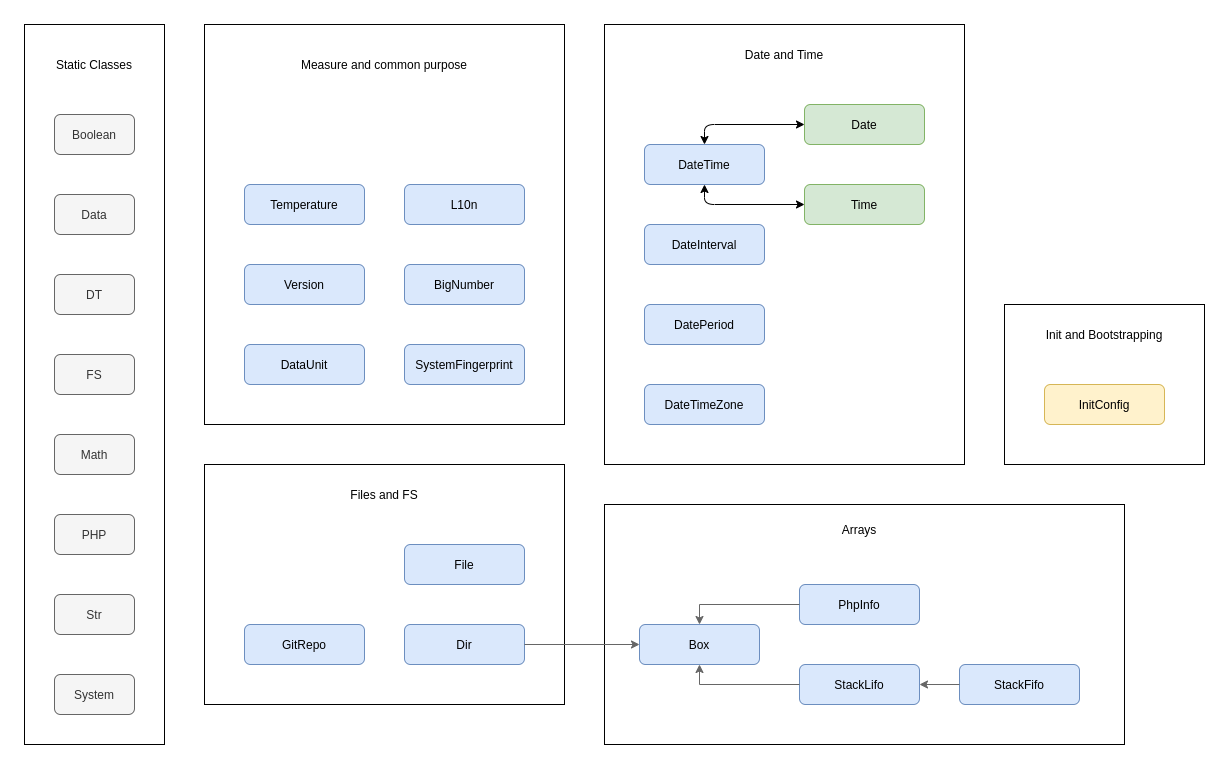
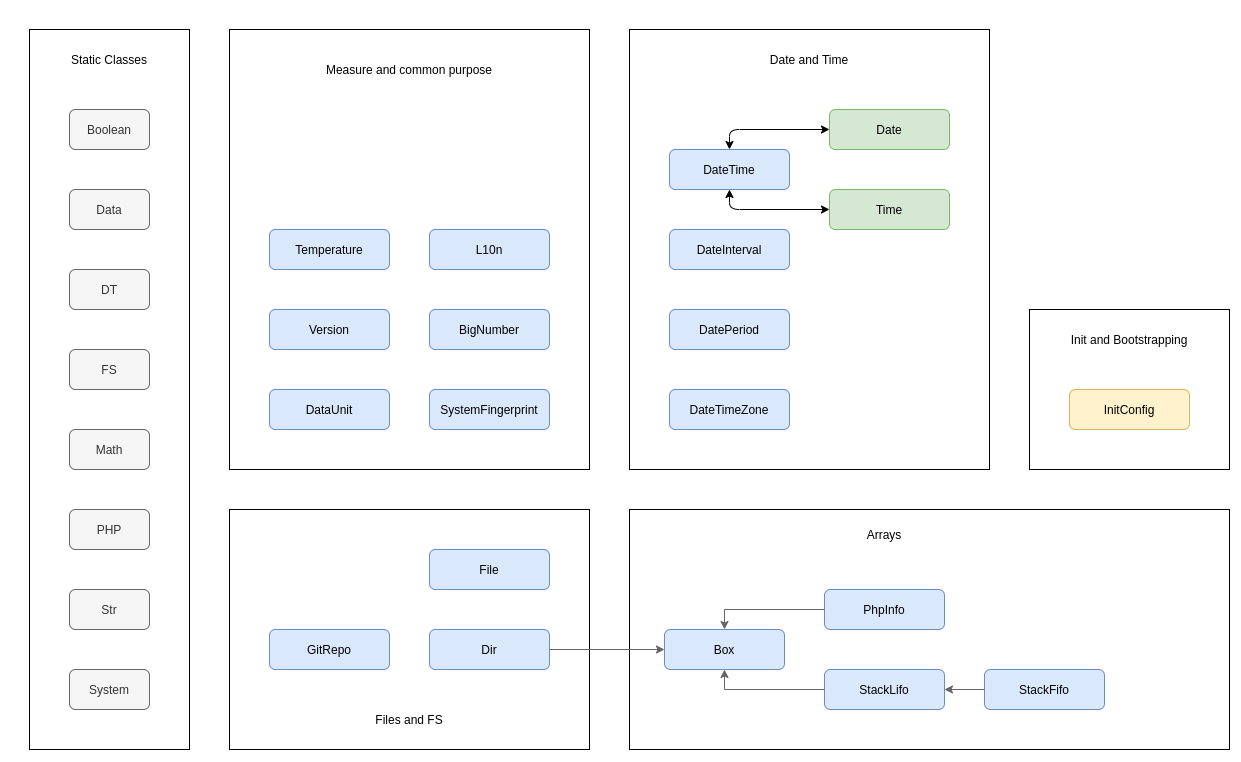
59 final architecture and schemes general description of framework and its entities (#70)
* Tiny adjustments

* Structure minimal description

* Structure minimal description

diff --git a/docs/structure.md b/docs/structure.md
@@ -1,0 +1,169 @@
+[<< Back to README.md](../README.md)
+
+----
+
+# Structure
+
+
+![Structure Schema](images/Structure%20Scheme%20v1.png)
+
+**Legend**
+ * Grey squares - Static classes
+ * Blue squares - Model classes
+ * Green squares - Prism classes
+ * Yellow square - different ungrouped classes
+ 
+## Overview
+Overall there are 6 logical groups of functionality, at least major ones.
+
+ 1. [Static classes group](#Static-classes-group)
+ 2. [Models of measure and common purpose](#Models-of-measure-and-common-purpose)
+ 3. [Models of date and time](#Models-of-date-and-time)
+ 4. [Models of files and file-system](#Models-of-files-and-file-system)
+ 5. [Models of arrays and data-structures](#Models-of-arrays-and-data-structures)
+ 6. [Initialization and bootstrapping](#Initialization-and-bootstrapping)
+ 
+---------
+
+### Static classes group
+
+More about static classes: [Static Classes](static-classes-group.md)
+
+ 1. [Boolean](#boolean) (code [\spaf\simputils\Boolean](https://github.com/PandaHugMonster/php-simputils/blob/main/src/Boolean.php))
+ 2. [Data](#data) (code [\spaf\simputils\Data](https://github.com/PandaHugMonster/php-simputils/blob/main/src/Data.php))
+ 3. [DT](#dt) (code [\spaf\simputils\DT](https://github.com/PandaHugMonster/php-simputils/blob/main/src/DT.php))
+ 4. [FS](#fs) (code [\spaf\simputils\FS](https://github.com/PandaHugMonster/php-simputils/blob/main/src/FS.php))
+ 5. [Math](#math) (code [\spaf\simputils\Math](https://github.com/PandaHugMonster/php-simputils/blob/main/src/Math.php))
+ 6. [PHP](#php) (code [\spaf\simputils\PHP](https://github.com/PandaHugMonster/php-simputils/blob/main/src/PHP.php))
+ 7. [Str](#str) (code [\spaf\simputils\Str](https://github.com/PandaHugMonster/php-simputils/blob/main/src/Str.php))
+ 8. [System](#system) (code [\spaf\simputils\System](https://github.com/PandaHugMonster/php-simputils/blob/main/src/System.php))
+
+#### Boolean
+
+Static class `\spaf\simputils\Boolean` provides functions 
+to work with boolean values (and theirs' variations)
+
+#### Data
+
+Static class `\spaf\simputils\Data` provides functions
+to work with data-units.
+
+#### DT
+
+Static class `\spaf\simputils\DT` provides functions
+to work with Date and Time.
+
+#### FS
+
+Static class `\spaf\simputils\FS` provides functions
+to work with file system
+
+#### Math
+
+Static class `\spaf\simputils\Math` provides functions
+to work with Math
+
+#### PHP
+
+Static class `\spaf\simputils\PHP` provides general framework
+and PHP functionality
+
+#### Str
+
+Static class `\spaf\simputils\Str` provides functions
+to work with strings
+
+#### System
+
+Static class `\spaf\simputils\System` provides functions
+to obtain info about the system/platform
+
+-------
+
+### Models of measure and common purpose
+
+1. [Version](#Version) (code [\spaf\simputils\models\Version](https://github.com/PandaHugMonster/php-simputils/blob/main/src/models/Version.php))
+2. [DataUnit](#DataUnit) (code [\spaf\simputils\models\DataUnit](https://github.com/PandaHugMonster/php-simputils/blob/main/src/models/DataUnit.php))
+3. [Temperature](#Temperature) (code [\spaf\simputils\models\Temperature](https://github.com/PandaHugMonster/php-simputils/blob/main/src/models/Temperature.php))
+4. [BigNumber](#BigNumber) (code [\spaf\simputils\models\BigNumber](https://github.com/PandaHugMonster/php-simputils/blob/main/src/models/BigNumber.php))
+5. [L10n](#L10n) (code [\spaf\simputils\models\L10n](https://github.com/PandaHugMonster/php-simputils/blob/main/src/models/L10n.php))
+6. [SystemFingerprint](#SystemFingerprint) (code [\spaf\simputils\models\SystemFingerprint](https://github.com/PandaHugMonster/php-simputils/blob/main/src/models/SystemFingerprint.php))
+
+#### Version
+
+#### DataUnit
+
+#### Temperature
+
+#### BigNumber
+
+#### L10n
+
+#### SystemFingerprint
+
+-------
+
+### Models of date and time
+
+1. [DateTime](#DateTime) (code [\spaf\simputils\models\DateTime](https://github.com/PandaHugMonster/php-simputils/blob/main/src/models/DateTime.php))
+2. [Date](#Date) (code [\spaf\simputils\models\Date](https://github.com/PandaHugMonster/php-simputils/blob/main/src/models/Date.php))
+3. [Time](#Time) (code [\spaf\simputils\models\Time](https://github.com/PandaHugMonster/php-simputils/blob/main/src/models/Time.php))
+4. [DateInterval](#DateInterval) (code [\spaf\simputils\models\DateInterval](https://github.com/PandaHugMonster/php-simputils/blob/main/src/models/DateInterval.php))
+5. [DatePeriod](#DatePeriod) (code [\spaf\simputils\models\DatePeriod](https://github.com/PandaHugMonster/php-simputils/blob/main/src/models/DatePeriod.php))
+6. [DateTimeZone](#DateTimeZone) (code [\spaf\simputils\models\DateTimeZone](https://github.com/PandaHugMonster/php-simputils/blob/main/src/models/DateTimeZone.php))
+
+#### DateTime
+
+#### Date
+
+#### Time
+
+#### DateInterval
+
+#### DatePeriod
+
+#### DateTimeZone
+
+
+-------
+
+### Models of files and file-system
+
+1. [File](#File) (code [\spaf\simputils\models\File](https://github.com/PandaHugMonster/php-simputils/blob/main/src/models/File.php))
+2. [Dir](#Dir) (code [\spaf\simputils\models\Dir](https://github.com/PandaHugMonster/php-simputils/blob/main/src/models/Dir.php))
+3. [GitRepo](#GitRepo) (code [\spaf\simputils\models\GitRepo](https://github.com/PandaHugMonster/php-simputils/blob/main/src/models/GitRepo.php))
+
+#### File
+
+#### Dir
+
+#### GitRepo
+
+
+-------
+
+### Models of arrays and data-structures
+
+1. [Box](#Box) (code [\spaf\simputils\models\Box](https://github.com/PandaHugMonster/php-simputils/blob/main/src/models/Box.php))
+2. [StackLifo](#StackLifo) (code [\spaf\simputils\models\StackLifo](https://github.com/PandaHugMonster/php-simputils/blob/main/src/models/StackLifo.php))
+3. [StackFifo](#StackFifo) (code [\spaf\simputils\models\StackFifo](https://github.com/PandaHugMonster/php-simputils/blob/main/src/models/StackFifo.php))
+4. [PhpInfo](#PhpInfo) (code [\spaf\simputils\models\PhpInfo](https://github.com/PandaHugMonster/php-simputils/blob/main/src/models/PhpInfo.php))
+
+#### Box
+
+#### StackLifo
+
+#### StackFifo
+
+#### PhpInfo
+
+
+
+-------
+
+### Initialization and bootstrapping
+
+1. [InitConfig](#InitConfig) (code [\spaf\simputils\models\InitConfig](https://github.com/PandaHugMonster/php-simputils/blob/main/src/models/InitConfig.php))
+
+#### InitConfig
+

diff --git a/README.md b/README.md
@@ -1,4 +1,14 @@
+:ukraine: #StandWithUkraine
+
+This is the official Bank of Ukraine link for donations for Ukraine:
+
+https://bank.gov.ua/en/news/all/natsionalniy-bank-vidkriv-spetsrahunok-dlya-zboru-koshtiv-na-potrebi-armiyi
+
+-----
+-----
+
 # SimpUtils
+
 
 **SimpUtils** is a micro-framework that provides interconnected, consistent utilities 
 to improve code maintenance, code quality, development speed. 
@@ -23,12 +33,21 @@ Feel free to propose updates and creating issues, bugfixes and stuff!
 
 ## Index
 
- 1. [Installation]()
- 2. [Highlights]()
+ 1. [Highlights]()
+ 2. [Architecture and Structure](docs/structure.md)
+    1. [Static classes group](docs/structure.md#Static-classes-group)
+    2. [Models of measure and common purpose](docs/structure.md#Models-of-measure-and-common-purpose)
+    3. [Models of date and time](docs/structure.md#Models-of-date-and-time)
+    4. [Models of files and file-system](docs/structure.md#Models-of-files-and-file-system)
+    5. [Models of arrays and data-structures](docs/structure.md#Models-of-arrays-and-data-structures)
+    6. [Initialization and bootstrapping](docs/structure.md#Initialization-and-bootstrapping)
  3. [Glossary](docs/glossary.md)
- 4. [Ground Reasons and Design Decisions](docs/reasoning-and-design.md)
- 5. [Main components overview](docs/main-components-overview.md)
- 6. [Date and Time](docs/date-and-time.md)
+ 4. [Installation](#Installation)
+
+
+ 5. [Ground Reasons and Design Decisions](docs/reasoning-and-design.md)
+ 6. [Main components overview](docs/main-components-overview.md)
+ 7. [Date and Time](docs/date-and-time.md)
 
 ----
 
